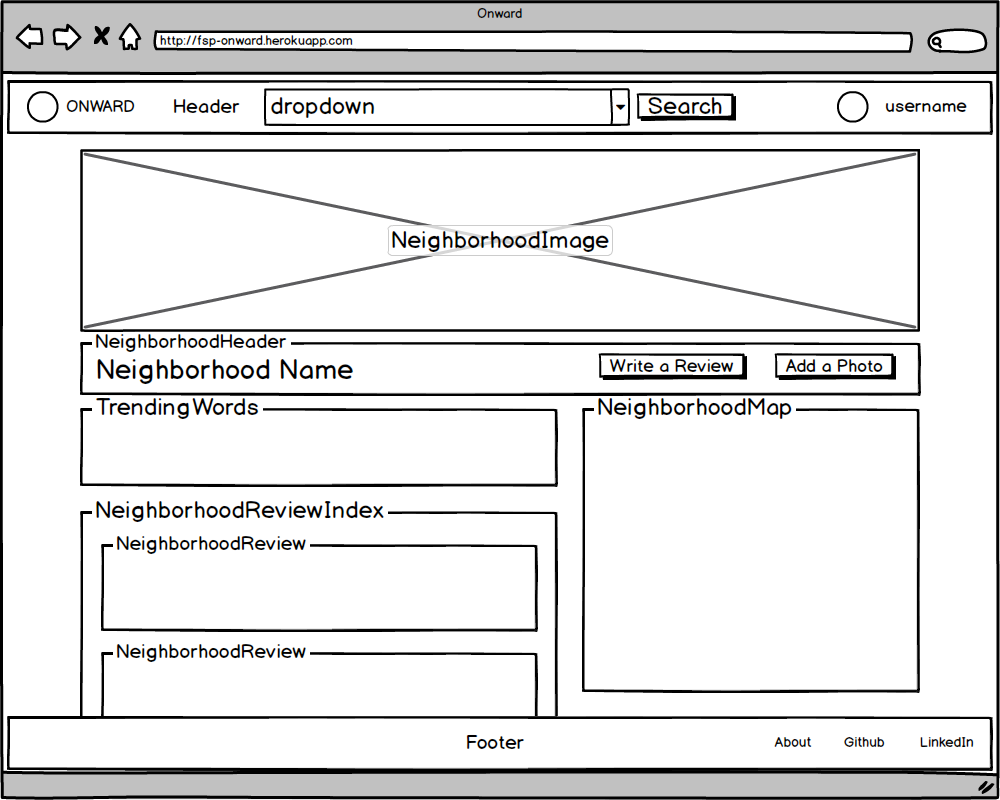
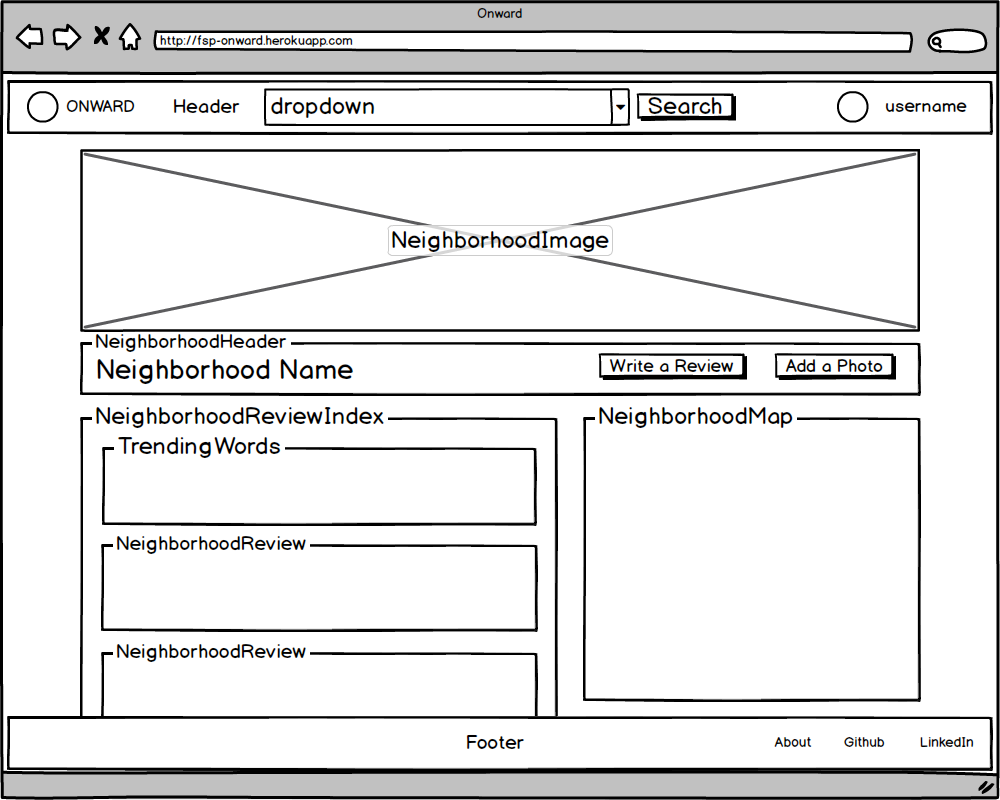
update state to reflect separate slices for neighborhoods and neighborhood

Changed region(s): [[0.062, 0.5, 0.558, 0.6562], [0.558, 0.5, 0.93, 0.875], [0.558, 0.7188, 0.589, 0.7812]]

diff --git a/frontend/components/neighborhood_page/neighborhood_page.jsx b/frontend/components/neighborhood_page/neighborhood_page.jsx
@@ -1,25 +1,31 @@
 import React from 'react';
-// import NeighborhoodImage from './neighborhood_image';
-// import NeighborhoodHeader from './neighborhood_header';
-// import NeighborhoodMap from './neighborhood_map';
-// import NeighborhoodReviewIndex from './neighborhood_review_index';
-// import NeighborhoodTrendingWords from './neighborhood_trending_words';
+import NeighborhoodImage from './neighborhood_image';
+import NeighborhoodHeader from './neighborhood_header';
+import NeighborhoodMap from './neighborhood_map';
+import NeighborhoodReviewIndex from './neighborhood_review_index';
 
-const NeighborhoodPage = ({currentNeighborhood}) => (
-  <div className="neighborhood-page">
-    <h2>This is the neighborhood page!</h2>
-  </div>
-);
+class NeighborhoodPage extends React.Component {
+  constructor(props) {
+    super(props);
+    this.props.fetchNeighborhood(1);
+    console.log(props);
+  }
 
-export default NeighborhoodPage;
-
-
+  render() {
+    return (
+      <div className="neighborhood-page">
+        This is the neighborhood page!
+      </div>
+    );
+  }
+}
 // <NeighborhoodImage />
-// <NeighborhoodHeader currentNeighborhood={currentNeighborhood} />
+// <NeighborhoodHeader currentNeighborhood={this.props.currentNeighborhood} />
 // <div className="below-neighborhood-header">
 //   <div className="all-review-content">
-//     <NeighborhoodTrendingWords />
-//     <NeighborhoodReviewIndex />
+//     <NeighborhoodReviewIndex reviews={this.props.currentNeighborhood.reviews}/>
 //   </div>
-//   <NeighborhoodMap />
+//   <NeighborhoodMap currentNeighborhood={this.props.currentNeighborhood} />
 // </div>
+
+export default NeighborhoodPage;

diff --git a/frontend/reducers/neighborhoods_reducer.js b/frontend/reducers/neighborhoods_reducer.js
@@ -1,21 +1,12 @@
-import { merge } from 'lodash';
-import { RECEIVE_NEIGHBORHOODS, RECEIVE_NEIGHBORHOOD } from '../actions/neighborhoods_actions';
+import { union } from 'lodash';
+import { RECEIVE_NEIGHBORHOODS } from '../actions/neighborhoods_actions';
 
-const _nullState = {
-  searchResults: [],
-  currentNeighborhood: {}
-};
+const _nullState = [];
 
 const NeighborhoodsReducer = (oldState = _nullState, action) => {
   switch (action.type) {
     case RECEIVE_NEIGHBORHOODS:
-      let newState = merge({}, oldState);
-      newState.searchResults = action.neighborhoods;
-      return newState;
-    case RECEIVE_NEIGHBORHOOD:
-      newState = merge({}, oldState);
-      newState.currentNeighborhood = action.neighborhood;
-      return newState;
+      return action.neighborhoods;
     default:
       return oldState;
   }

diff --git a/frontend/components/neighborhood_page/neighborhood_review_index.jsx b/frontend/components/neighborhood_page/neighborhood_review_index.jsx
@@ -1,0 +1,24 @@
+import React from 'react';
+import NeighborhoodTrendingWords from './neighborhood_trending_words';
+import NeighborhoodReviewItem from './neighborhood_review_item';
+
+const NeighborhoodReviewIndex = ({reviews}) => {
+  let allReviews;
+
+  if (reviews) {
+    allReviews = reviews.map((review, idx) => (
+      <NeighborhoodReviewItem review={review} key={idx} />
+    ));
+  }
+
+  return (
+    <div className="neighborhood-review-index'">
+      <NeighborhoodTrendingWords reviews={reviews} />
+      <ul>
+        {allReviews}
+      </ul>
+    </div>
+  );
+};
+
+export default NeighborhoodReviewIndex;

diff --git a/frontend/components/neighborhood_page/neighborhood_header.jsx b/frontend/components/neighborhood_page/neighborhood_header.jsx
@@ -1,0 +1,23 @@
+import React from 'react';
+
+const NeighborhoodHeader = ({currentNeighborhood}) => {
+  const handleReviewClick = () => {
+
+  };
+
+  const handlePhotoClick = () => {
+
+  };
+
+  return (
+    <div className="neighborhood-header'">
+      <h2>{currentNeighborhood.name}</h2>
+      <div className="neighborhood-header-buttons">
+        <button onClick={handleReviewClick}>Write a Review</button>
+        <button onClick={handlePhotoClick}>Add a Photo</button>
+      </div>
+    </div>
+  );
+};
+
+export default NeighborhoodHeader;

diff --git a/frontend/reducers/root_reducer.js b/frontend/reducers/root_reducer.js
@@ -2,11 +2,13 @@ import { combineReducers } from 'redux';
 import SessionReducer from './session_reducer';
 import RegionsReducer from './regions_reducer';
 import NeighborhoodsReducer from './neighborhoods_reducer';
+import NeighborhoodReducer from './neighborhood_reducer';
 
 const RootReducer = combineReducers({
   session: SessionReducer,
   regions: RegionsReducer,
-  neighborhoods: NeighborhoodsReducer
+  neighborhoods: NeighborhoodsReducer,
+  neighborhood: NeighborhoodReducer
 });
 
 export default RootReducer;

diff --git a/frontend/components/neighborhood_page/neighborhood_trending_words.jsx b/frontend/components/neighborhood_page/neighborhood_trending_words.jsx
@@ -1,0 +1,20 @@
+import React from 'react';
+
+const NeighborhoodTrendingWords = ({reviews}) => {
+  let allWords = [];
+
+  if (reviews) {
+    reviews.forEach(review => {
+      let bodyWords = review.body.split(" ");
+      allWords.concat(bodyWords);
+    });
+  }
+
+  return (
+    <div className="neighborhood-trending-words'">
+      This is the neighborhood trending words component.
+    </div>
+  );
+}
+
+export default NeighborhoodTrendingWords;

diff --git a/frontend/reducers/neighborhood_reducer.js b/frontend/reducers/neighborhood_reducer.js
@@ -1,0 +1,14 @@
+import { RECEIVE_NEIGHBORHOOD } from '../actions/neighborhoods_actions';
+
+const _nullState = {};
+
+const NeighborhoodReducer = (oldState = _nullState, action) => {
+  switch (action.type) {
+    case RECEIVE_NEIGHBORHOOD:
+      return action.neighborhood;
+    default:
+      return oldState;
+  }
+};
+
+export default NeighborhoodReducer;

diff --git a/frontend/components/neighborhood_page/neighborhood_page_container.js b/frontend/components/neighborhood_page/neighborhood_page_container.js
@@ -7,7 +7,7 @@ const mapStateToProps = state => ({
 });
 
 const mapDispatchToProps = dispatch => ({
-
+  fetchNeighborhood: (id) => dispatch(fetchNeighborhood(id))
 });
 
 export default connect(mapStateToProps, mapDispatchToProps)(NeighborhoodPage);

diff --git a/frontend/components/neighborhood_page/neighborhood_review_item.jsx b/frontend/components/neighborhood_page/neighborhood_review_item.jsx
@@ -1,0 +1,7 @@
+import React from 'react';
+
+const NeighborhoodReviewItem = ({review}) => (
+  <li>{review.user.first_name} {review.user.last_name.slice(0, 1)}. : {review.body}</li>
+);
+
+export default NeighborhoodReviewItem;

diff --git a/frontend/components/neighborhood_page/neighborhood_image.jsx b/frontend/components/neighborhood_page/neighborhood_image.jsx
@@ -1,0 +1,9 @@
+import React from 'react';
+
+const NeighborhoodImage = () => (
+  <div className="neighborhood-image'">
+    This is the neighborhood image.
+  </div>
+);
+
+export default NeighborhoodImage;

diff --git a/frontend/components/neighborhood_page/neighborhood_map.jsx b/frontend/components/neighborhood_page/neighborhood_map.jsx
@@ -1,0 +1,9 @@
+import React from 'react';
+
+const NeighborhoodMap = () => (
+  <div className="neighborhood-map'">
+    This is the neighborhood map.
+  </div>
+);
+
+export default NeighborhoodMap;

diff --git a/db/schema.rb b/db/schema.rb
@@ -11,23 +11,25 @@
 #
 # It's strongly recommended that you check this file into your version control system.
 
-ActiveRecord::Schema.define(version: 20161103004319) do
+ActiveRecord::Schema.define(version: 20161103190851) do
 
   # These are extensions that must be enabled in order to support this database
   enable_extension "plpgsql"
 
   create_table "images", force: :cascade do |t|
     t.string   "url",              null: false
-    t.integer  "review_id",        null: false
-    t.boolean  "region_rep",       null: false
-    t.boolean  "neighborhood_rep", null: false
     t.datetime "created_at",       null: false
     t.datetime "updated_at",       null: false
     t.string   "caption"
+    t.integer  "user_id",          null: false
+    t.integer  "review_id"
+    t.boolean  "region_rep"
+    t.boolean  "neighborhood_rep"
+    t.integer  "neighborhood_id"
   end
 
-  add_index "images", ["review_id"], name: "index_images_on_review_id", using: :btree
   add_index "images", ["url"], name: "index_images_on_url", unique: true, using: :btree
+  add_index "images", ["user_id"], name: "index_images_on_user_id", using: :btree
 
   create_table "neighborhoods", force: :cascade do |t|
     t.string   "name",              null: false
